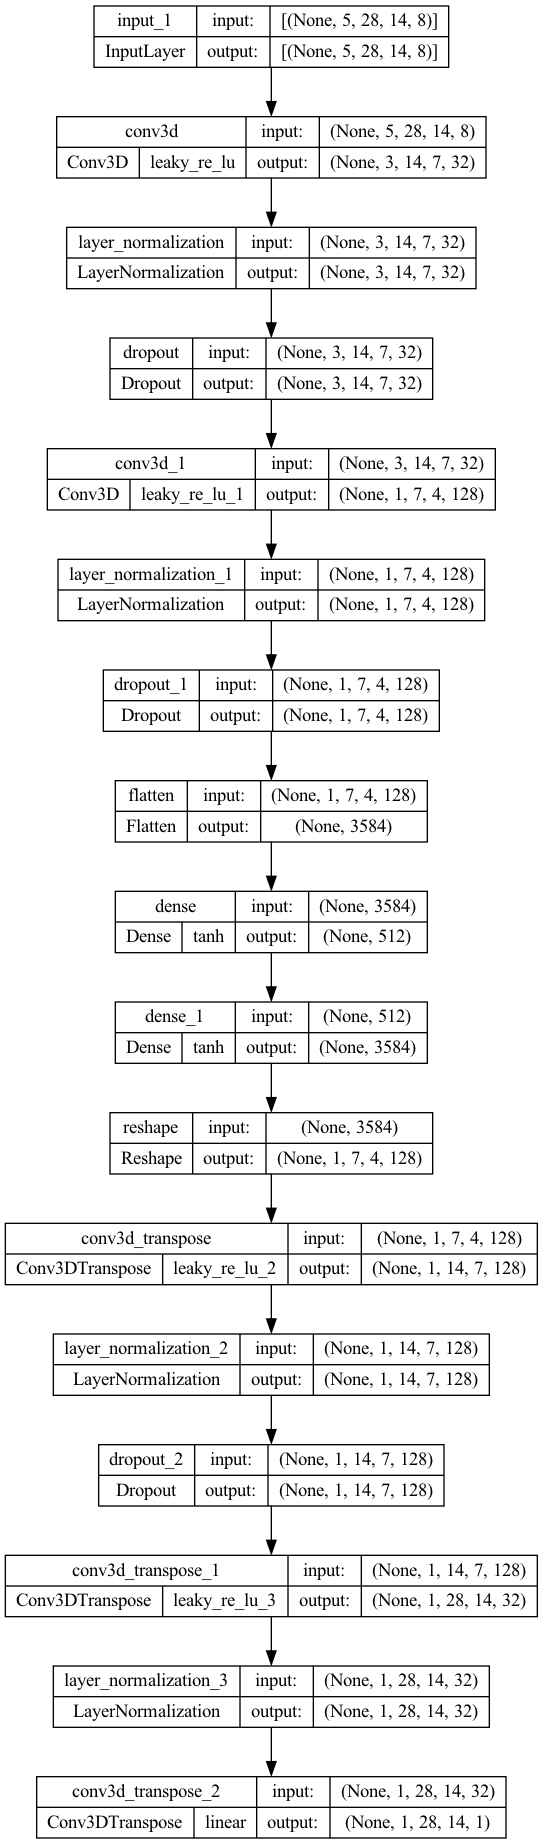
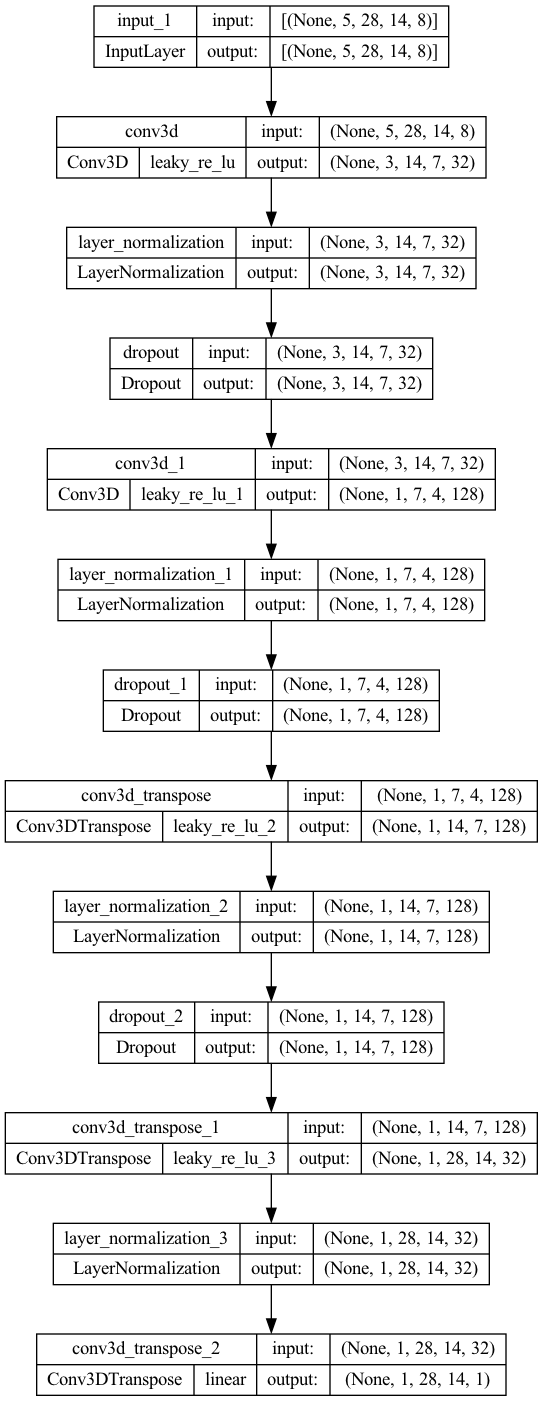
denoise

Changed region(s): [[0.0, 0.0, 1.0, 1.0]]

diff --git a/ml/train_test_keras.py b/ml/train_test_keras.py
@@ -21,7 +21,8 @@ from ml.conv_lstm import MakeConvLSTM
 from ml.conv import MakeConv
 from ml.rbdn import MakeRBDN
 from ml.splitter import MakeSplitter
-from ml.denoise3D import MakeDenoise
+#from ml.denoise3D import MakeDenoise
+from ml.denoise3DOrig import MakeDenoise
 from ml.linear import MakeLinear
 from ml.dense import MakeDense
 from ml.dense_trans import MakeDenseTrans
@@ -111,7 +112,7 @@ def TrainKerasModel(config_path, model_name=None, model_save_path='/Users/joshua
         model = MakeDenseTrans(config_path, np.shape(x_train), np.shape(y_train))
         num_epochs = config['HYPERPARAMETERS']['trans_hyperparams_dict']['epochs']
         batch_size = config['HYPERPARAMETERS']['trans_hyperparams_dict']['batch_size']
-    
+
     model.compile(loss=keras.losses.MeanSquaredError(reduction="sum_over_batch_size", 
                                                      name="MSE"),
                   optimizer=keras.optimizers.SGD())
@@ -123,7 +124,11 @@ def TrainKerasModel(config_path, model_name=None, model_save_path='/Users/joshua
     #custom_lr = NoisyDecayLR(num_epochs)
     #custom_lr = NoisySinLR(num_epochs)
     #custom_lr = FractaLR(num_epochs)
-
+    print("____________________________________________________________")
+    print(" >> Creating model type:", config['MODEL_TYPE'])
+    print("____________________________________________________________")
+    print(model.summary())
+    print("____________________________________________________________")
     print(" >> x_train:", np.shape(x_train))
     print(" >> y_train:", np.shape(y_train))
     print(" >> x_test :", np.shape(x_test))
@@ -138,9 +143,14 @@ def TrainKerasModel(config_path, model_name=None, model_save_path='/Users/joshua
                         epochs=num_epochs,
                         verbose=1,
                         callbacks=[custom_lr, early_stopping_cb])
+    print(" >> Finished training model type:", config['MODEL_TYPE'])
+    print("____________________________________________________________")
     #----------------------------------------------------------------
     ''' Save model '''
     if not (model_save_path==None):
+        if not os.path.exists(model_save_path):
+            os.makedirs(model_save_path)
+        
         if (model_name == None):
             model_name = NameModel(config_path, prefix=prefix)
     
@@ -151,11 +161,12 @@ def TrainKerasModel(config_path, model_name=None, model_save_path='/Users/joshua
         model.save_weights(os.path.join(model_save_path, model_name+'.h5'))
 
         print(' >>')
-        print(' >>')
-        print(' >> model_name', model_name)
+        print(' >> Saving:', model_name)
         print(' >>')
         print(' >> Architecture file:', os.path.join(model_save_path, model_name+'.json'))
         print(' >> Weights file:', os.path.join(model_save_path, model_name+'.h5'))
+
+        keras.utils.plot_model(model, show_shapes=True, show_layer_activations=True, to_file=os.path.join('SavedModels/Figs', model_name+'.png'))
     return x_test, y_test, history
 #====================================================================
 def TestKerasModel(config_path, model_name):
@@ -207,14 +218,6 @@ def TestKerasModel(config_path, model_name):
     lon       = UnScale(x_test[..., -3], 'data_utils/scale_files/lon_minmax.json').reshape(x_test_orig_shape[:-1])
     lat       = UnScale(x_test[..., -2], 'data_utils/scale_files/lat_minmax.json').reshape(x_test_orig_shape[:-1])
     time      = UnScale(x_test[..., -1], 'data_utils/scale_files/time_minmax.json').reshape(x_test_orig_shape[:-1])
-    
-    # print('UNSCALED OZONE', np.shape(raw_ozone), raw_ozone)
-    # print("+++++++++++++++++++++++++++++++")
-    # print('UNSCALED LON', np.shape(lon), lon)
-    # print("+++++++++++++++++++++++++++++++")
-    # print("UNSCALED LAT", np.shape(lat), lat)
-    # print("+++++++++++++++++++++++++++++++")
-    # print("UNSCALED TIME", np.shape(time), time)
 
     #----------------------------------------------------------------
     ''' Get trained model '''
@@ -222,17 +225,6 @@ def TestKerasModel(config_path, model_name):
     model_architecture = ''
     model_weights = ''
     model = 69
-    # print("ASDASDOUPHONJKKNNKJOODASJNOFAS")
-    # print("ASDASDOUPHONJKKNNKJOODASJNOFAS")
-    # print("ASDASDOUPHONJKKNNKJOODASJNOFAS")
-    # print("ASDASDOUPHONJKKNNKJOODASJNOFAS")
-    # print("ASDASDOUPHONJKKNNKJOODASJNOFAS")
-    # print(os.listdir(model_folder))
-    # print("ASDASDOUPHONJKKNNKJOODASJNOFAS")
-    # print("ASDASDOUPHONJKKNNKJOODASJNOFAS")
-    # print("ASDASDOUPHONJKKNNKJOODASJNOFAS")
-    # print("ASDASDOUPHONJKKNNKJOODASJNOFAS")
-    # print("ASDASDOUPHONJKKNNKJOODASJNOFAS")
     folders = os.listdir(model_folder)
     if ('.DS_Store' in folders):
         folders.remove('.DS_Store')
@@ -240,7 +232,7 @@ def TestKerasModel(config_path, model_name):
     for folder in folders:
         for root, dirs, files in os.walk(os.path.join(model_folder, folder)):
             for name in files:
-                print("root=",root, ", name=", name)
+                #print("root=",root, ", name=", name)
                 if (model_name in name):
                     if name.endswith('.json'):
                         model_architecture = os.path.join(root, name)
@@ -366,8 +358,6 @@ def TestKerasModel(config_path, model_name):
     #model_name = model_path.split('/')[-1]
 
     fig.savefig(os.path.join(figure_folder, model_name+'.pdf'), bbox_inches=None, pad_inches=0)
-    print("Model source:", os.path.join(root, model_name))
-    print("____________________________________________________________")
     plt.show()
 #x_test, y_test, history = TrainConvLSTM('config.yml')
 

diff --git a/ml/denoise3DOrig.py b/ml/denoise3DOrig.py
@@ -40,15 +40,24 @@ def MakeDenoise(config_path,
     x = input_
     
     x = Conv3D(filters=outer_filters,
-               kernel_size=(x.shape[1], 5, 5), # orig 4, 2
-               strides=(x.shape[1], 4, 2),  # orig 4, 2
+                kernel_size=(3, 3, 3),
+                strides=(2, 2, 2),
+                padding="same",
+                activation=LeakyReLU(alpha=0.2))(x)
+    #x = BatchNormalization(axis=chanDim)(x)
+    x = LayerNormalization()(x)
+    x = Dropout(rate=0.1)(x)
+
+    x = Conv3D(filters=inner_filters,
+               kernel_size=(3, 3, 3),
+               strides=(x.shape[1], 2, 2),
                padding="same",
                activation=LeakyReLU(alpha=0.2))(x)
     #x = BatchNormalization(axis=chanDim)(x)
     x = LayerNormalization()(x)
     x = Dropout(rate=0.1)(x)
-
     pre_latent_size = x.shape
+
     #---------------------------------------------------------------
     ''' Bottleneck '''
 
@@ -60,51 +69,62 @@ def MakeDenoise(config_path,
             x = LayerNormalization()(x)
             x = Dropout(rate=0.1)(x)
         
-        x = Dense(units=y_data_shape[1] * np.prod(pre_latent_size[1:]), activation=LeakyReLU(alpha=0.2))(x)
+        x = Dense(units=np.prod(pre_latent_size[1:]), activation=LeakyReLU(alpha=0.2))(x)
         x = LayerNormalization()(x)
         x = Dropout(rate=0.1)(x)
 
-        x = Reshape((y_data_shape[1], pre_latent_size[2], pre_latent_size[3], pre_latent_size[4]))(x)
-    
-    else:
-        x = Reshape((y_data_shape[1], pre_latent_size[2], pre_latent_size[3], pre_latent_size[4]))(x)
+        x = Reshape((pre_latent_size[1], pre_latent_size[2], pre_latent_size[3], pre_latent_size[4]))(x)
     #----------------------------------------------------------------
     ''' Decoder '''
     
+    # loop over our number of filters again, but this time in
+    # reverse order
+    
+    x = Convolution3DTranspose(filters=inner_filters,
+                               kernel_size=(1, 3, 3),
+                               strides=(1, 2, 2),
+                               padding="same",
+                               output_padding=(0, 1, 0),
+                               activation=LeakyReLU(alpha=0.2))(x)
+    #x = BatchNormalization(axis=chanDim)(x)
+    x = LayerNormalization()(x)
+    x = Dropout(rate=0.1)(x)
+    # apply a single CONV_TRANSPOSE layer used to recover the
+    # original depth of the image
     x = Convolution3DTranspose(filters=outer_filters, 
-                               kernel_size=(y_data_shape[1], 5, 5),
-                               strides=(y_data_shape[1], 4, 2),
+                               kernel_size=(1, 3, 3),
+                               strides=(1, 2, 2),
                                padding="same",
                                activation=LeakyReLU(alpha=0.2))(x)
     #x = BatchNormalization(axis=chanDim)(x)
     x = LayerNormalization()(x)
 
-    output = Conv3D(filters=y_data_shape[4], 
-                    kernel_size=(1, 1, 1),
-                    strides=(1, 1, 1),
-                    padding="same",
-                    activation='linear')(x)
+    output = Convolution3DTranspose(filters=y_data_shape[4], 
+                                    kernel_size=(1, 3, 3),
+                                    strides=(1, 1, 1),
+                                    padding="same",
+                                    activation='linear')(x)
     #----------------------------------------------------------------
     
     autoencoder = keras.Model(input_, output, name="autoencoder")
     
     print(autoencoder.summary())
-    keras.utils.plot_model(autoencoder, show_shapes=True, show_layer_activations=True, to_file=os.path.join('SavedModels/Figs', 'Denoise3D1StageTest.png'))
+    keras.utils.plot_model(autoencoder, show_shapes=True, show_layer_activations=True, to_file=os.path.join('SavedModels/Figs', 'Denoise3DOrig.png'))
 
     return autoencoder
 #====================================================================
-# x_train = np.random.rand(100, 5, 28, 14, 8)
-# y_train = np.random.rand(100, 1, 28, 14, 1)
+x_train = np.random.rand(100, 5, 28, 14, 8)
+y_train = np.random.rand(100, 1, 28, 14, 1)
 
-# autoencoder = MakeDenoise('config.yml',
-#                           x_data_shape=x_train.shape,
-#                           y_data_shape=y_train.shape)
-# keras.utils.plot_model(autoencoder, show_shapes=True, show_layer_activations=True, expand_nested=True, to_file=os.path.join('SavedModels/Figs', 'denoise3D.png'))
-# print(autoencoder.summary())
+autoencoder = MakeDenoise('config.yml',
+                          x_data_shape=x_train.shape,
+                          y_data_shape=y_train.shape)
+keras.utils.plot_model(autoencoder, show_shapes=True, show_layer_activations=True, expand_nested=True, to_file=os.path.join('SavedModels/Figs', 'denoise3D.png'))
+print(autoencoder.summary())
 
-# autoencoder.compile(loss='mse',optimizer=keras.optimizers.Adam(learning_rate=0.001))
+autoencoder.compile(loss='mse',optimizer=keras.optimizers.Adam(lr=0.001))
 
-# history = autoencoder.fit(x=x_train,
-#                           y=y_train,
-#                           epochs=10,
-#                           batch_size=32)
+history = autoencoder.fit(x=x_train,
+                          y=y_train,
+                          epochs=10,
+                          batch_size=32)

diff --git a/ml/splitter_v2.py b/ml/splitter_v2.py
@@ -97,8 +97,6 @@ def MakeSplitter_v2(config_path,
     #----------------------------------------------------------------
     model = keras.Model(input_layer, final)
 
-    keras.utils.plot_model(model, show_shapes=True, show_layer_activations=True, to_file=os.path.join('SavedModels/Figs', 'splitter.png'))
-    print(model.summary())
     return model
 #====================================================================
 # x = np.random.random((200, 5, 28, 14, 8))
@@ -116,42 +114,42 @@ def MakeSplitter_v2(config_path,
 #                     epochs=2,
 #                     verbose=1)
 
-class NonSharedWeightsConv3D(keras.layers.Layer):
-    def __init__(self, num_filters, kernel_size, **kwargs):
-        super(NonSharedWeightsConv3D, self).__init__(**kwargs)
-        self.num_filters = num_filters
-        self.kernel_size = kernel_size
-        self.conv_layers = [Conv2D(num_filters, kernel_size, padding='same') for _ in range(10)]
+# class NonSharedWeightsConv3D(keras.layers.Layer):
+#     def __init__(self, num_filters, kernel_size, **kwargs):
+#         super(NonSharedWeightsConv3D, self).__init__(**kwargs)
+#         self.num_filters = num_filters
+#         self.kernel_size = kernel_size
+#         self.conv_layers = [Conv2D(num_filters, kernel_size, padding='same') for _ in range(10)]
 
-    def call(self, inputs):
-        # Expecting input shape: (batch, time, height, width, channels)
-        outputs = []
-        for i in range(10):
-            # Select the frame at time step i
-            frame = inputs[:, i, :, :, :]
-            # Apply the corresponding Conv2D layer
-            conv_output = self.conv_layersi
-            # Add the conv_output to the list of outputs
-            outputs.append(conv_output)
-        # Stack the outputs along the time dimension
-        return tf.stack(outputs, axis=1)
+#     def call(self, inputs):
+#         # Expecting input shape: (batch, time, height, width, channels)
+#         outputs = []
+#         for i in range(10):
+#             # Select the frame at time step i
+#             frame = inputs[:, i, :, :, :]
+#             # Apply the corresponding Conv2D layer
+#             conv_output = self.conv_layersi
+#             # Add the conv_output to the list of outputs
+#             outputs.append(conv_output)
+#         # Stack the outputs along the time dimension
+#         return tf.stack(outputs, axis=1)
 
-# Define the model
-input_shape = (10, 25, 25, 3)
-model = keras.Sequential([
-    NonSharedWeightsConv3D(num_filters=32, kernel_size=(3, 3), input_shape=input_shape),
-    # Additional layers can be added here
-    Reshape((10, 25 * 25 * 32)),  # Reshape for Dense layer
-    Dense(units=25 * 25 * 3),  # Output layer
-    Reshape((1, 25, 25, 3))  # Reshape to the desired output shape
-])
+# # Define the model
+# input_shape = (10, 25, 25, 3)
+# model = keras.Sequential([
+#     NonSharedWeightsConv3D(num_filters=32, kernel_size=(3, 3), input_shape=input_shape),
+#     # Additional layers can be added here
+#     Reshape((10, 25 * 25 * 32)),  # Reshape for Dense layer
+#     Dense(units=25 * 25 * 3),  # Output layer
+#     Reshape((1, 25, 25, 3))  # Reshape to the desired output shape
+# ])
 
-# Compile the model
-model.compile(optimizer='adam', loss='mse')
+# # Compile the model
+# model.compile(optimizer='adam', loss='mse')
 
-# Generate synthetic data
-x_train = np.random.rand(100, 10, 25, 25, 3)
-y_train = np.random.rand(100, 1, 25, 25, 3)
+# # Generate synthetic data
+# x_train = np.random.rand(100, 10, 25, 25, 3)
+# y_train = np.random.rand(100, 1, 25, 25, 3)
 
-# Train the model
-model.fit(x_train, y_train, epochs=10)
+# # Train the model
+# model.fit(x_train, y_train, epochs=10)

diff --git a/main.py b/main.py
@@ -7,14 +7,11 @@ import sys
 import yaml
 
 sys.path.append(os.getcwd())
-from data_utils.data_loader import DataLoader
-from data_utils.prepare_histories_targets import Histories_Targets
-from data_utils.train_test_split import Train_Test_Split
 from ml.train_test_keras import TrainKerasModel, TestKerasModel
 from ml.train_test_naive_rf import TrainNaiveRF, TestNaiveRF
 from ml.train_test_XGBoost import TrainNaiveXGBoost, TestNaiveXGBoost
 #====================================================================
-''' Get infor from config '''
+''' Get info from config '''
 with open('config.yml', 'r') as c:
     config = yaml.load(c, Loader=yaml.FullLoader)
 
@@ -28,6 +25,10 @@ assert (model_type in ['RF', 'GBM', 'Linear', 'Dense', 'Conv', 'ConvLSTM', 'RBDN
 
 short = {'Whole_Area':'WA', 'South_Land':'SL', 'North_Land':'NL', 'East_Ocean':'EO', 'West_Ocean':'WO'}
 
+print(model_type)
+print(model_type)
+print(model_type)
+print(model_type)
 #====================================================================
 if (model_type == 'Linear'):
     # TrainKerasModel('config.yml',
@@ -59,9 +60,10 @@ elif (model_type == 'RBDN'):
                    model_name='RBDN_reg='+short[region]+'_h=5_f=1_In=OFTUVXYD_Out=O_e='+str(e))
 #--------------------------------------------------------------------
 elif (model_type == 'Denoise'):
+    print("fdhgfjhgfjhgfjhgf\nkdjydjycjyf\njfdjhfdgcikv")
     e = config['HYPERPARAMETERS']['denoise_hyperparams_dict']['epochs']
     TrainKerasModel('config.yml',
-                    model_save_path=os.path.join(model_save_path, 'RBDN'))
+                    model_save_path=os.path.join(model_save_path, 'Denoise'))
     TestKerasModel('config.yml',
                    model_name='Denoise_reg='+short[region]+'_h=5_f=1_In=OFTUVXYD_Out=O_e='+str(e))
 #-------------------------------------------------------------------- 

diff --git a/ml/splitter.py b/ml/splitter.py
@@ -101,20 +101,20 @@ def MakeSplitter(config_path,
     print(model.summary())
     return model
 #====================================================================
-x = np.random.random((200, 5, 28, 14, 8))
-y = np.random.random((200, 1, 28, 14, 1)) * 1.2
+# x = np.random.random((200, 5, 28, 14, 8))
+# y = np.random.random((200, 1, 28, 14, 1)) * 1.2
 
-model = MakeSplitter('config.yml', x.shape, y.shape)
+# model = MakeSplitter('config.yml', x.shape, y.shape)
 
-model.compile(loss=keras.losses.MeanSquaredError(reduction="sum_over_batch_size", 
-                                                 name="MSE"),
-              optimizer=keras.optimizers.Adam(learning_rate=1e-3))
+# model.compile(loss=keras.losses.MeanSquaredError(reduction="sum_over_batch_size", 
+#                                                  name="MSE"),
+#               optimizer=keras.optimizers.Adam(learning_rate=1e-3))
 
-history = model.fit(x=x,
-                    y=y,
-                    batch_size=10,
-                    epochs=2,
-                    verbose=1)
+# history = model.fit(x=x,
+#                     y=y,
+#                     batch_size=10,
+#                     epochs=2,
+#                     verbose=1)
 # #====================================================================
 # model_json = model.to_json()
 # with open(os.path.join('/Users/joshuamiller/Documents/Lancaster/SavedModels/Split', 'splitter_test.json'), 'w') as json_file:

diff --git a/ml/dense.py b/ml/dense.py
@@ -68,8 +68,8 @@ def MakeDense(config_path,
     #----------------------------------------------------------------
     model = keras.Model(input_layer, output_layer)
 
-    keras.utils.plot_model(model, show_shapes=True, show_layer_activations=True, to_file=os.path.join('SavedModels/Figs', 'DiamondDense.png'))
-    print(model.summary())
+    # keras.utils.plot_model(model, show_shapes=True, show_layer_activations=True, to_file=os.path.join('SavedModels/Figs', 'DiamondDense.png'))
+    # print(model.summary())
     return model
 
 #====================================================================
